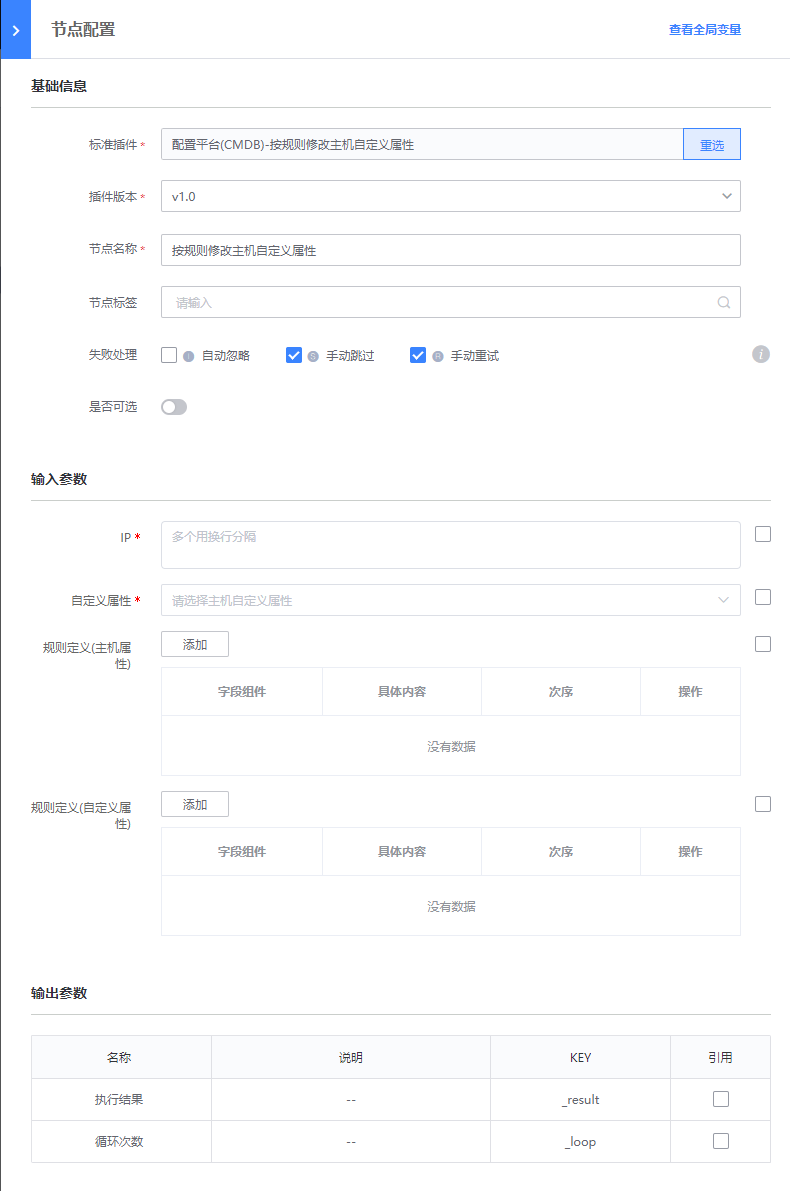
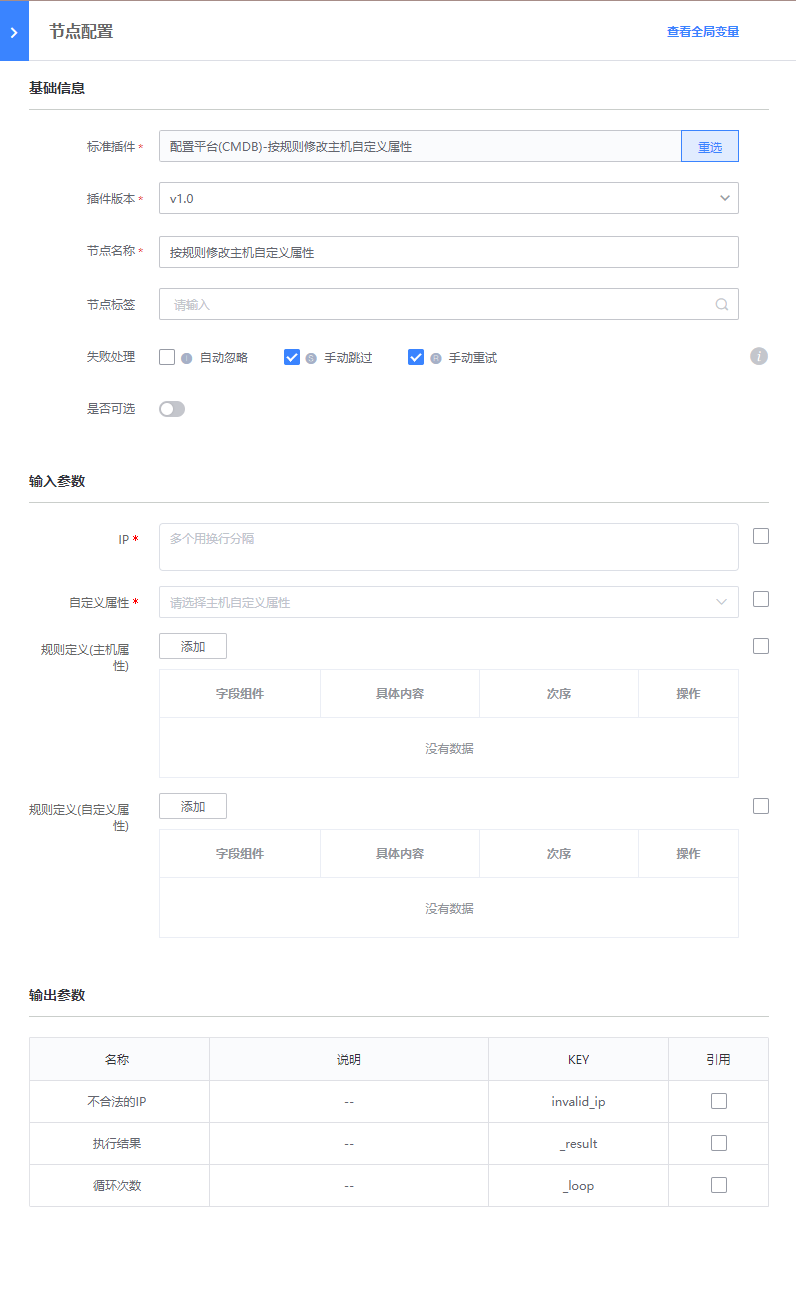
minor: 提示用户哪些 ip 是非法的

diff --git a/pipeline_plugins/components/collections/sites/open/cc/host_custom_property_change/v1_0.py b/pipeline_plugins/components/collections/sites/open/cc/host_custom_property_change/v1_0.py
@@ -108,8 +108,12 @@ class CCHostCustomPropertyChangeService(Service):
         hostname_rule = sorted(hostname_rule, key=lambda e: e.__getitem__("field_order"))
 
         ip_list = cc_get_ips_info_by_str(username=operator, biz_cc_id=biz_cc_id, ip_str=sa_ip_list, use_cache=False)
-        if not ip_list["result"] or not ip_list["ip_count"] or ip_list["invalid_ip"]:
+        if not ip_list["result"] or not ip_list["ip_count"]:
             data.outputs.ex_data = _("无法从配置平台(CMDB)查询到对应 IP，请确认输入的 IP 是否合法")
+            return False
+        if ip_list["invalid_ip"]:
+            data.outputs.ex_data = _("无法从配置平台(CMDB)查询到对应 IP，请确认输入的 IP 是否合法")
+            data.outputs.invalid_ip = ",".join(ip_list["invalid_ip"])
             return False
 
         # 规则中包含的自增变量个数
@@ -227,6 +231,14 @@ class CCHostCustomPropertyChangeService(Service):
             return False
 
         return True
+
+    def outputs_format(self):
+        return [
+            self.OutputItem(name=_('不合法的IP'),
+                            key='invalid_ip',
+                            type='string',
+                            schema=StringItemSchema(description=_('不合法的IP'))),
+        ]
 
 
 class CCHostCustomPropertyChangeComponent(Component):

diff --git a/pipeline_plugins/components/collections/sites/open/docs/cc/host_custom_property_change/v1_0.md b/pipeline_plugins/components/collections/sites/open/docs/cc/host_custom_property_change/v1_0.md
@@ -26,6 +26,7 @@
 * 执行结果：
 
   系统展示的插件执行结果
+  用户输入的经过CMDB判断不合法的IP
 
 ## 样例
 
